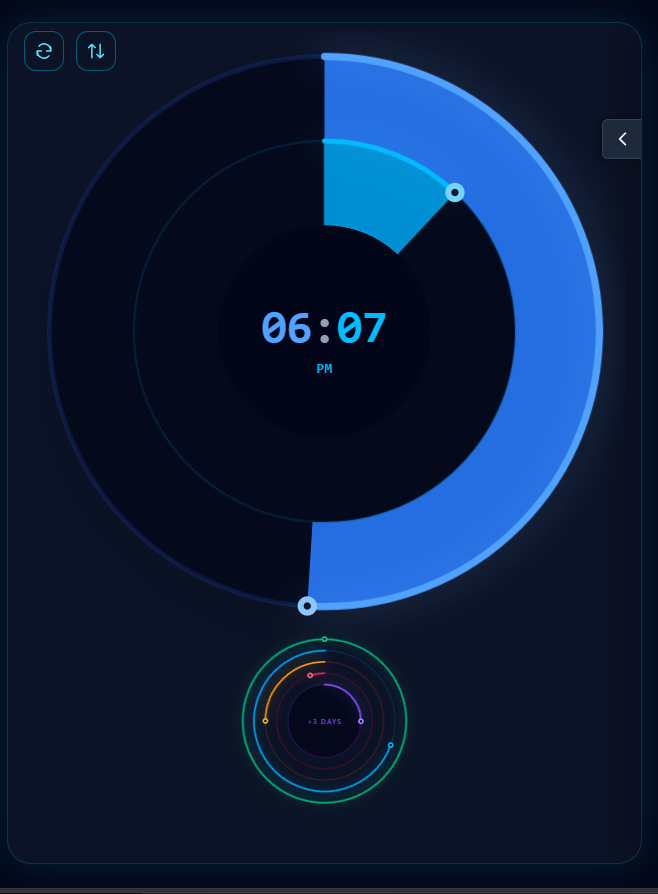
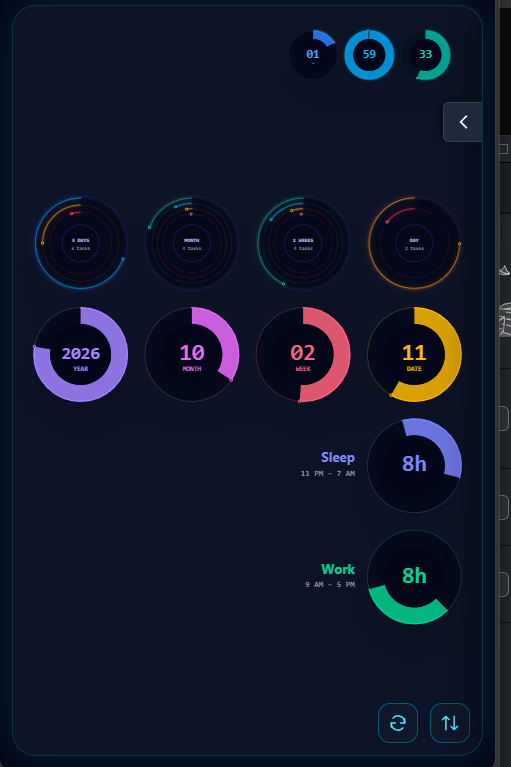
add db diagram

diff --git a/index.html b/index.html
@@ -120,21 +120,23 @@
                 <li>Window WPF</li>
                 <li>React</li>
                 <li>Console</li>
-                
-         
+
+
 
                 <li>Tech Academy</li>
                 <ul>
                     <li>
-                        <a href="https://canisoris.github.io/JAVASCRIPT-PROJECTS/" target="_blank" rel="noopener noreferrer">JavaScript Projects</a>
+                        <a href="https://canisoris.github.io/JAVASCRIPT-PROJECTS/" target="_blank"
+                            rel="noopener noreferrer">JavaScript Projects</a>
                     </li>
                     <li>
-                        <a href="https://canisoris.github.io/HTML-AND-CSS-PROJECTS/" target="_blank" rel="noopener noreferrer">HTML/CSS Projects</a>
-                        
+                        <a href="https://canisoris.github.io/HTML-AND-CSS-PROJECTS/" target="_blank"
+                            rel="noopener noreferrer">HTML/CSS Projects</a>
+
                     </li>
                 </ul>
             </ul>
-  
+
 
         </div>
         <!--Right column-->
@@ -146,35 +148,42 @@
                 <article class="Project_Card">
                     <span class="Project_Number" aria-hidden="true">01</span>
                     <h2>AI</h2>
-                    <a class="Project_Link" href="https://canisoris.github.io/Reactive/?app=3d.Vector.Explorer.jsx" target="_blank" rel="noopener noreferrer">
+                    <a class="Project_Link" href="https://canisoris.github.io/Reactive/?app=3d.Vector.Explorer.jsx"
+                        target="_blank" rel="noopener noreferrer">
                         <img class="Project_Image" src="./images/3dVectorExpl.png"
-                            alt="Document vectors displayed as colored clusters in a 3D visualization"
-                            width="1565" height="854" loading="lazy">
+                            alt="Document vectors displayed as colored clusters in a 3D visualization" width="1565"
+                            height="854" loading="lazy">
                         <h3>3D Vector Explorer</h3>
                     </a>
-                    <p>Explore document vectors in an interactive 3D visualization to discover patterns and clusters.</p>
+                    <p>Explore document vectors in an interactive 3D visualization to discover patterns and clusters.
+                    </p>
                 </article>
                 <article class="Project_Card">
                     <span class="Project_Number" aria-hidden="true">02</span>
                     <h2>React</h2>
-                    <a class="Project_Link" href="https://canisoris.github.io/Reactive/?app=base10clock.jsx" target="_blank" rel="noopener noreferrer">
-                        <img class="Project_Image_Tall " src="./images/clock.png"
-                            alt="timeline watch"
-                            width="1565" height="854" loading="lazy">
-                        <h3>Timeline Clock</h3>
+                    <a class="Project_Link" href="https://canisoris.github.io/Reactive/?app=base10clock.jsx"
+                        target="_blank" rel="noopener noreferrer">
+                        <img class="Project_Image_Tall " src="./images/clock.png" alt="timeline watch" width="1565"
+                            height="854" loading="lazy">
+                        <h3>Phone centered desgin</h3>
                     </a>
-                    <p>Experients in Time</p>
+                    <p>Calendar / Task List - mostly playing with the interface</p>
                 </article>
                 <article class="Project_Card">
                     <span class="Project_Number" aria-hidden="true">03</span>
-                    <h2>.Net</h2>
-                    <p>A future showcase of .NET applications.</p>
-                    <span class="Project_Status">Coming soon</span>
+                    <h2>Database Design App: React</h2>
+                    <p>Make save and load database designs: I have used this to communicate to and from AI</p>
+                    <a class="Project_Link" href="https://canisoris.github.io/Reactive/?app=dbdesign"
+                        target="_blank" rel="noopener noreferrer">
+                        <img class="Project_Image_Tall " src="./images/dbdiag.png" alt="db app" width="1565"
+                            height="854" loading="lazy">
+                    </a>
+                    <span class="Project_Status">Active Experiment</span>
                 </article>
                 <article class="Project_Card">
                     <span class="Project_Number" aria-hidden="true">04</span>
-                    <h2>Integrations</h2>
-                    <p>A future showcase of connected systems and workflows.</p>
+                    <h2></h2>
+                    <p></p>
                     <span class="Project_Status">Coming soon</span>
                 </article>
             </div>
